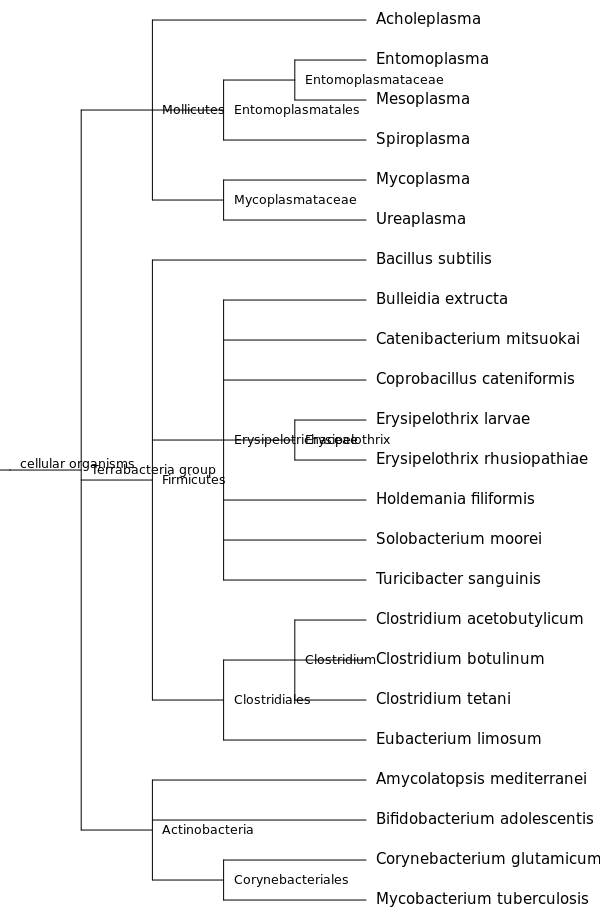
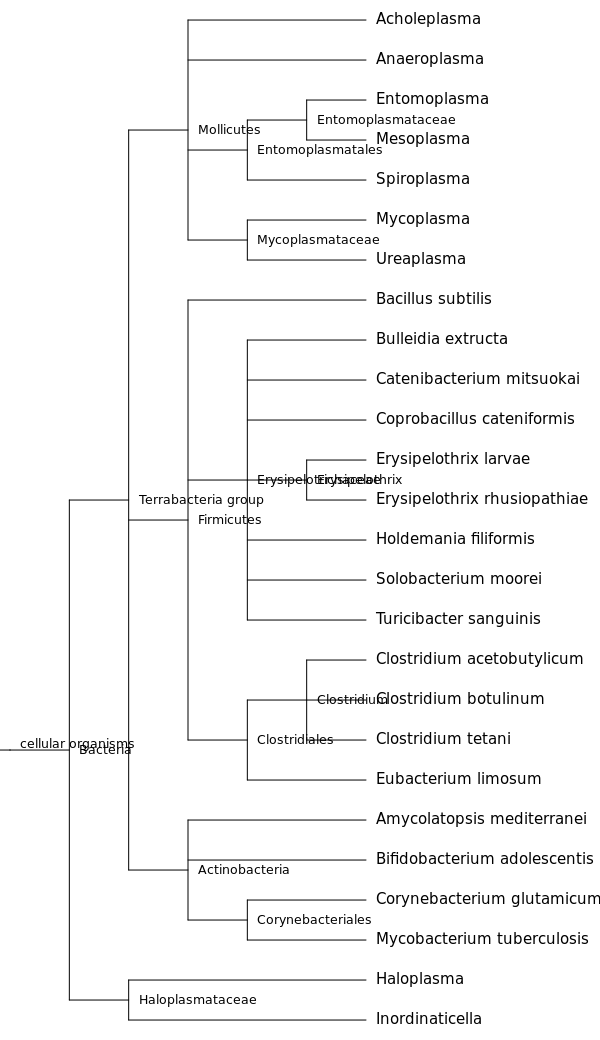
Misc changes

Changed region(s): [[0.0, 0.0, 1.0, 1.0], [0.84, 0.9739, 0.99, 1.0]]

diff --git a/pop/Tenericutes.md b/pop/Tenericutes.md
@@ -186,7 +186,10 @@ cd ~/data/alignment/Tenericutes
 
 bp_taxonomy2tree.pl -e \
     -s "Acholeplasma" \
+    -s "Anaeroplasma" \
     -s "Entomoplasma" \
+    -s "Haloplasma" \
+    -s "Inordinaticella" \
     -s "Mesoplasma" \
     -s "Mycoplasma" \
     -s "Spiroplasma" \
